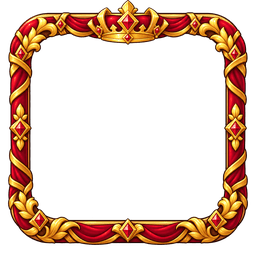
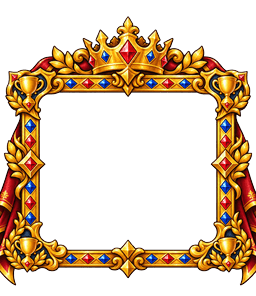
시즌 왕관 테두리
Claude-Session: https://claude.ai/code/session_011AypWsTwCXy5ahmKUPDYwt

diff --git a/sw.js b/sw.js
@@ -1,6 +1,6 @@
 /* 왕이 되는 그날까지 — 오프라인 실행용 서비스 워커 (tools/build_sw.py가 만듦, 직접 고치지 말 것) */
-const VERSION='3465763212';
-const MAP={"assets/bg/ash_far.png":"abfdc7ad7e","assets/bg/ash_ground.png":"fbd17f65c8","assets/bg/ash_mid.png":"bf807812ec","assets/bg/ash_sky.png":"300201d8a2","assets/bg/canyon_far.png":"a9cc422fed","assets/bg/canyon_ground.png":"d5f682c619","assets/bg/canyon_mid.png":"e5e4324591","assets/bg/canyon_sky.png":"9c202a64b5","assets/bg/dusk_far.png":"f566503025","assets/bg/dusk_ground.png":"d4760254fd","assets/bg/dusk_mid.png":"e0989d31a1","assets/bg/dusk_sky.png":"c82f7b61d3","assets/bg/erdan_far.png":"d094fc7ce5","assets/bg/erdan_ground.png":"d3529606e8","assets/bg/erdan_mid.png":"c8ad3804c1","assets/bg/erdan_sky.png":"1e05f8731e","assets/bg/frost_far.png":"19dad2ce88","assets/bg/frost_ground.png":"3b9d5fb014","assets/bg/frost_mid.png":"69a80fb601","assets/bg/frost_sky.png":"955f847347","assets/characters/brida_attack.png":"8a08e6bed8","assets/characters/brida_hit.png":"917e69900f","assets/characters/brida_idle.png":"9d37c07a5e","assets/characters/brida_walk.png":"35456db495","assets/characters/bron_attack.png":"3a0e0caf42","assets/characters/bron_hit.png":"84a7154e77","assets/characters/bron_idle.png":"61229dcc5b","assets/characters/bron_walk.png":"7dad3ba0f2","assets/characters/daisy_attack.png":"4b7c1426b9","assets/characters/daisy_hit.png":"8f1a0878af","assets/characters/daisy_idle.png":"61377c6830","assets/characters/daisy_walk.png":"d5f2435e50","assets/characters/gordon_attack.png":"68652efe05","assets/characters/gordon_hit.png":"c801ae79b5","assets/characters/gordon_idle.png":"3784327d72","assets/characters/gordon_walk.png":"2a61a74afb","assets/characters/haral_attack.png":"978f3afc3f","assets/characters/haral_hit.png":"213362f649","assets/characters/haral_idle.png":"8bf0bf6d20","assets/characters/haral_walk.png":"39e8f29d2f","assets/characters/kael_attack.png":"dbd47d1705","assets/characters/kael_hit.png":"b0fbed0ea5","assets/characters/kael_idle.png":"29cdfa8cdc","assets/characters/kael_walk.png":"884487f656","assets/characters/luka_attack.png":"10b694870b","assets/characters/luka_hit.png":"00d56f7f82","assets/characters/luka_idle.png":"0c7c261f4e","assets/characters/luka_walk.png":"ffde5d0b12","assets/characters/margo_attack.png":"5801b486be","assets/characters/margo_hit.png":"1340b2a211","assets/characters/margo_idle.png":"d44c7fa00a","assets/characters/margo_walk.png":"86be37ce75","assets/characters/nella_attack.png":"c56d9ca13c","assets/characters/nella_hit.png":"4b975ad670","assets/characters/nella_idle.png":"c666efcc20","assets/characters/nella_walk.png":"e4712b243c","assets/characters/riel_attack.png":"08dc86ec82","assets/characters/riel_hit.png":"22eb8eaca6","assets/characters/riel_idle.png":"3cf3652c06","assets/characters/riel_walk.png":"d429ca1f71","assets/crops/crop_carrot_1.png":"f521f1b21a","assets/crops/crop_carrot_2.png":"96412cae61","assets/crops/crop_carrot_3.png":"0caab08be8","assets/crops/crop_carrot_4.png":"631ee0ae4c","assets/crops/crop_pumpkin_1.png":"17da246fd2","assets/crops/crop_pumpkin_2.png":"4bd771eea2","assets/crops/crop_pumpkin_3.png":"b0e0de0917","assets/crops/crop_pumpkin_4.png":"4199c151ff","assets/crops/crop_wheat_1.png":"b2c4cba4cd","assets/crops/crop_wheat_2.png":"9f43ac98c5","assets/crops/crop_wheat_3.png":"1980c09851","assets/crops/crop_wheat_4.png":"96d9a3ad42","assets/crops/plot_empty.png":"bf40b6ed45","assets/fonts/hahmlet-500.woff2":"2e21f9e04c","assets/fonts/hahmlet-700.woff2":"cff1c42d55","assets/fonts/plexkr-400.woff2":"2185fb2e58","assets/fonts/plexkr-600.woff2":"760cba76f5","assets/fx/fx_bees.png":"a77e742ff9","assets/fx/fx_coin.png":"83d65bf09a","assets/fx/fx_crit.png":"08659b9d49","assets/fx/fx_harpoon.png":"84a4e2831d","assets/fx/fx_heal.png":"9ceeb9de2e","assets/fx/fx_hit.png":"b9b3abbcaf","assets/fx/fx_skill_brida.png":"55e34584e8","assets/fx/fx_skill_bron.png":"ecbc795a27","assets/fx/fx_skill_daisy.png":"4f3bb837b2","assets/fx/fx_skill_gordon.png":"1e8ac2eb87","assets/fx/fx_skill_haral.png":"5e1499b5c7","assets/fx/fx_skill_kael.png":"81aabe4d33","assets/fx/fx_skill_luka.png":"85cac3f606","assets/fx/fx_skill_margo.png":"ac0d3edc16","assets/fx/fx_skill_nella.png":"e508630a6f","assets/fx/fx_skill_riel.png":"47270c84f8","assets/fx/fx_soup.png":"4b941315f8","assets/gem/gem_pack_1.png":"fbaa0f6542","assets/gem/gem_pack_2.png":"89bccb5745","assets/gem/gem_pack_3.png":"5b0c3058fd","assets/gem/gem_pack_4.png":"4b01620dbd","assets/gem/gem_pack_5.png":"3d29e897fe","assets/gem/gem_pack_6.png":"5164494272","assets/gem/ui_gem.png":"d72701ba7d","assets/icon/apple-touch-icon.png":"e50c9e6bf1","assets/icon/favicon-16.png":"2db4311b5d","assets/icon/favicon-32.png":"440db49613","assets/icon/icon-192.png":"441e2997bd","assets/icon/icon-512.png":"eda2be997b","assets/illust/illust_join.jpg":"4d0406de00","assets/illust/illust_offline.jpg":"809bf511a2","assets/illust/illust_prologue.jpg":"9beba365b5","assets/illust/illust_retire.jpg":"74ff311a7f","assets/illust/illust_title.jpg":"006adb3633","assets/map/ash_boss.png":"a8be9e52dc","assets/map/ash_enemy.png":"d2262367aa","assets/map/canyon_boss.png":"6b7c17a49c","assets/map/canyon_enemy.png":"e2d7d4ebcd","assets/map/capital_locked.png":"c828d1f67a","assets/map/capital_open.png":"cee360a677","assets/map/dusk_boss.png":"dbf6d0b566","assets/map/dusk_enemy.png":"543dbb2608","assets/map/erdan_boss.png":"63719713d5","assets/map/erdan_enemy.png":"b3c3a8a4e9","assets/map/frost_boss.png":"6ec913cade","assets/map/frost_enemy.png":"87e0ecc588","assets/monsters/bat_shadow_attack.png":"733f900992","assets/monsters/bat_shadow_hit.png":"6c6777143a","assets/monsters/bat_shadow_walk.png":"4bdf69f59e","assets/monsters/boss_aldor_attack.png":"98d147de33","assets/monsters/boss_aldor_hit.png":"8ef2631028","assets/monsters/boss_aldor_walk.png":"dc30c29780","assets/monsters/boss_gromak_attack.png":"79580dc79a","assets/monsters/boss_gromak_hit.png":"8afa36ddae","assets/monsters/boss_gromak_walk.png":"508e49c3f2","assets/monsters/boss_ignis_attack.png":"b3792ddac0","assets/monsters/boss_ignis_hit.png":"39874ec8ec","assets/monsters/boss_ignis_walk.png":"745f03cf3c","assets/monsters/boss_morbas_attack.png":"b90b8b6dbd","assets/monsters/boss_morbas_hit.png":"b2e28fd059","assets/monsters/boss_morbas_walk.png":"c14aa48d24","assets/monsters/boss_seril_attack.png":"87c378c111","assets/monsters/boss_seril_hit.png":"8ee606e7e9","assets/monsters/boss_seril_walk.png":"630659de62","assets/monsters/goblin_gold_attack.png":"64a6f6f451","assets/monsters/goblin_gold_hit.png":"8b27eac950","assets/monsters/goblin_gold_walk.png":"c8a6e5c138","assets/monsters/goblin_pick_attack.png":"fa8e5c883f","assets/monsters/goblin_pick_hit.png":"066af0e709","assets/monsters/goblin_pick_walk.png":"e1f6d5d36a","assets/monsters/golem_steel_attack.png":"07e873d945","assets/monsters/golem_steel_hit.png":"67115529dc","assets/monsters/golem_steel_walk.png":"af9989172a","assets/monsters/imp_flame_attack.png":"9855e4f5e3","assets/monsters/imp_flame_hit.png":"ac4e28b83a","assets/monsters/imp_flame_walk.png":"6a0a835904","assets/monsters/scarecrow_cursed_attack.png":"19c1676923","assets/monsters/scarecrow_cursed_hit.png":"07f43ba22a","assets/monsters/scarecrow_cursed_walk.png":"0b7170d79c","assets/monsters/skeleton_frost_attack.png":"07648d88b9","assets/monsters/skeleton_frost_hit.png":"fcc108c10e","assets/monsters/skeleton_frost_walk.png":"74294ba7e2","assets/monsters/slime_ash_attack.png":"031d213acf","assets/monsters/slime_ash_hit.png":"ce2fa4d31b","assets/monsters/slime_ash_walk.png":"03ae7c49a4","assets/monsters/slime_plague_attack.png":"d4f6075abb","assets/monsters/slime_plague_hit.png":"bb74341a7e","assets/monsters/slime_plague_walk.png":"151b47bf12","assets/monsters/wolf_shadow_attack.png":"a6a83b34b8","assets/monsters/wolf_shadow_hit.png":"82a1af6e1d","assets/monsters/wolf_shadow_walk.png":"1251356e09","assets/monsters/wraith_frost_attack.png":"f5f41001fb","assets/monsters/wraith_frost_hit.png":"6348e92571","assets/monsters/wraith_frost_walk.png":"131c82c5ac","assets/portraits/portrait_aldor_idle.png":"07633d6214","assets/portraits/portrait_brida_idle.png":"cdf6882dec","assets/portraits/portrait_brida_laugh.png":"cde04938db","assets/portraits/portrait_bron_idle.png":"eb202419e5","assets/portraits/portrait_bron_laugh.png":"067dda71a1","assets/portraits/portrait_daisy_idle.png":"8b95fff77a","assets/portraits/portrait_daisy_laugh.png":"38c0f6471b","assets/portraits/portrait_gordon_idle.png":"9115efb052","assets/portraits/portrait_gordon_laugh.png":"03b62ce20f","assets/portraits/portrait_gromak_idle.png":"b4510b3437","assets/portraits/portrait_haral_idle.png":"8057bc4036","assets/portraits/portrait_haral_laugh.png":"c213936ee8","assets/portraits/portrait_ignis_idle.png":"6bb8479476","assets/portraits/portrait_kael_flustered.png":"dcbbe42cd0","assets/portraits/portrait_kael_idle.png":"2faad1bb9c","assets/portraits/portrait_kael_smile.png":"880d0b870c","assets/portraits/portrait_kael_surprised.png":"f49dfef839","assets/portraits/portrait_luka_idle.png":"ef693f34ba","assets/portraits/portrait_luka_laugh.png":"aafc2ba36c","assets/portraits/portrait_luminar_angry.png":"406fff108e","assets/portraits/portrait_luminar_moved.png":"ac97db5b14","assets/portraits/portrait_luminar_proud.png":"5a078f2d6f","assets/portraits/portrait_margo_idle.png":"a390d73c66","assets/portraits/portrait_margo_laugh.png":"6a6d2380f8","assets/portraits/portrait_marta_idle.png":"d86a9956f4","assets/portraits/portrait_morbas_idle.png":"1ed03a2888","assets/portraits/portrait_nella_idle.png":"b11813c857","assets/portraits/portrait_nella_laugh.png":"05ff86fd98","assets/portraits/portrait_pete_idle.png":"d14833cc91","assets/portraits/portrait_riel_idle.png":"31ca54792c","assets/portraits/portrait_riel_laugh.png":"40f5ce426b","assets/portraits/portrait_seril_idle.png":"52fb8d0eb1","assets/portraits/portrait_toby_idle.png":"ea6aef3ceb","assets/profile/badge_basket.png":"19ad639d98","assets/profile/badge_champ.png":"87c7d121ac","assets/profile/badge_chest.png":"1997070288","assets/profile/badge_crown1.png":"87c7d121ac","assets/profile/badge_crown2.png":"87c7d121ac","assets/profile/badge_crown3.png":"87c7d121ac","assets/profile/badge_goblin.png":"a97a7db198","assets/profile/badge_horns.png":"eb77cb7f93","assets/profile/badge_king.png":"87c7d121ac","assets/profile/badge_pumpkin.png":"e191405060","assets/profile/badge_rebuild.png":"100b0d8092","assets/profile/badge_retire.png":"68a96ee52e","assets/profile/badge_stew.png":"c5615ba22c","assets/profile/badge_top10.png":"87c7d121ac","assets/profile/frame_amethyst.png":"33596ec882","assets/profile/frame_conquer.png":"ac627fc7a3","assets/profile/frame_goblin.png":"206ee5a860","assets/profile/frame_gold.png":"ac627fc7a3","assets/profile/frame_harvest.png":"1b0b11ae0b","assets/profile/frame_holy.png":"1af08de6e7","assets/profile/frame_royal.png":"e21f45a33a","assets/profile/frame_season.png":"e21f45a33a","assets/profile/frame_silver.png":"1db41ebcfa","assets/profile/frame_straw.png":"0810bf19b1","assets/profile/frame_wood.png":"99f33b8a46","assets/relic/relic_armor_1.png":"16d76a13c5","assets/relic/relic_armor_2.png":"87fb210070","assets/relic/relic_armor_3.png":"dd11fe2783","assets/relic/relic_boots_1.png":"d9a8c049ac","assets/relic/relic_boots_2.png":"efd27637b0","assets/relic/relic_boots_3.png":"5a612f2e27","assets/relic/relic_gloves_1.png":"5e8bee64d0","assets/relic/relic_gloves_2.png":"6795c922c5","assets/relic/relic_gloves_3.png":"67e14c6405","assets/relic/relic_helm_1.png":"455c59b819","assets/relic/relic_helm_2.png":"d18874e0e3","assets/relic/relic_helm_3.png":"cf800e2dad","assets/relic/relic_ring_1.png":"10edfdff76","assets/relic/relic_ring_2.png":"78a2cc0f51","assets/relic/relic_ring_3.png":"b2278ff8ee","assets/relic/relic_weapon_1.png":"dcc7c7540a","assets/relic/relic_weapon_2.png":"5fdd6cc2b3","assets/relic/relic_weapon_3.png":"f0135343bd","assets/skills/skill_brida.png":"0aa718bf0d","assets/skills/skill_bron.png":"08c7b35e76","assets/skills/skill_daisy.png":"8ee38fd0b9","assets/skills/skill_gordon.png":"28dcc7dd68","assets/skills/skill_haral.png":"d392acbc14","assets/skills/skill_kael.png":"85c628e6a9","assets/skills/skill_luka.png":"ed4206fe68","assets/skills/skill_margo.png":"1498522d74","assets/skills/skill_nella.png":"04dc833078","assets/skills/skill_riel.png":"7aca6249d7","assets/ui/banner_capture.png":"cdce0b7ac7","assets/ui/bld_apiary.png":"1c86733003","assets/ui/bld_diner.png":"386a2fd60f","assets/ui/bld_dock.png":"f0409530e4","assets/ui/bld_farm.png":"ba8a24d8a9","assets/ui/bld_inn.png":"6857ad2ff5","assets/ui/bld_mine.png":"db914dbca5","assets/ui/boss_aura_commander.png":"3f9d291d94","assets/ui/boss_aura_lord.png":"785308d542","assets/ui/boss_mark_commander.png":"77e1e1b4bb","assets/ui/boss_mark_lord.png":"123c1b4432","assets/ui/btn_auto.png":"bb952f4274","assets/ui/btn_x1.png":"f15e57f854","assets/ui/btn_x2.png":"cc3f2a2268","assets/ui/buff_atk.png":"9a886d1ff6","assets/ui/buff_crit.png":"2b2750f8d0","assets/ui/buff_gold.png":"1a7ca0cf7c","assets/ui/buff_spd.png":"dae9c3f56c","assets/ui/card_back.png":"2e995c839d","assets/ui/card_pack3.png":"c7e9ba66d2","assets/ui/card_pack30.png":"bae3246a77","assets/ui/dish_bread.png":"cfa0004d31","assets/ui/dish_grill.png":"b3f6aa56e7","assets/ui/dish_pie.png":"ef179cd895","assets/ui/dish_stew.png":"75628aa305","assets/ui/frame_dialog.png":"1d1d83a399","assets/ui/frame_epic.png":"69a0cfc775","assets/ui/frame_legendary.png":"9a8f6852ac","assets/ui/frame_mythic.png":"83201ca46e","assets/ui/frame_normal.png":"01b42af2db","assets/ui/frame_popup.png":"20dc37c6ff","assets/ui/frame_rare.png":"6e60a9625d","assets/ui/frame_uncommon.png":"c1f9ee4e31","assets/ui/gold_pack1.png":"86f82d080a","assets/ui/gold_pack2.png":"fa9b76580c","assets/ui/gold_pack3.png":"fb7d21eb5f","assets/ui/hd_mail.png":"c7d765daa3","assets/ui/hd_profile.png":"d6f1533dc1","assets/ui/hd_rank.png":"3d843cc8fc","assets/ui/hd_settings.png":"800b585221","assets/ui/icon_mail.png":"0218f23f44","assets/ui/item_carrot.png":"9d51a5ea72","assets/ui/item_fish.png":"2f62e8797b","assets/ui/item_honey.png":"fbdf3d5e01","assets/ui/item_ore.png":"6eb3cdcb49","assets/ui/item_pumpkin.png":"074c67fcb2","assets/ui/item_wheat.png":"69fac25d82","assets/ui/job_cook.png":"8ecd134595","assets/ui/job_fisher.png":"f8d9a89f41","assets/ui/job_keeper.png":"cac89bfa34","assets/ui/job_miner.png":"004c57a1e5","assets/ui/logo.png":"2d22e7ca80","assets/ui/node_boss.png":"c79760401f","assets/ui/node_captured.png":"0a83211c2b","assets/ui/node_current.png":"c4a3ba8982","assets/ui/node_enemy.png":"55c59af8ea","assets/ui/rank_count.png":"f0e9a8bd8c","assets/ui/rank_duke.png":"80cb0fc6fa","assets/ui/rank_farmer.png":"493f3b96e1","assets/ui/rank_guard.png":"8a70f1c39c","assets/ui/rank_king.png":"a34e27d982","assets/ui/rank_knight.png":"78adabb17a","assets/ui/rank_lord.png":"77bb49441a","assets/ui/relic_chest.png":"9311479aa1","assets/ui/seed_carrot.png":"f21317e672","assets/ui/seed_pumpkin.png":"de9e24a972","assets/ui/seed_wheat.png":"bc87c11aee","assets/ui/slot_armor.png":"83816d046b","assets/ui/slot_boots.png":"01c1c89cdb","assets/ui/slot_gloves.png":"483d5aba63","assets/ui/slot_hat.png":"45c39d6e0c","assets/ui/slot_ring.png":"3707240c55","assets/ui/slot_weapon.png":"d76a948b02","assets/ui/tab_equipment.png":"cebacb923b","assets/ui/tab_map.png":"5178bc1d54","assets/ui/tab_party.png":"80412a0e78","assets/ui/tab_training.png":"f090ee0719","assets/ui/tab_village.png":"87cabcf9cb","assets/ui/ui_boss_mark.png":"8fe434b274","assets/ui/ui_gold.png":"12070643fb","assets/ui/upg_atk.png":"f736f9ddc3","assets/ui/upg_crit.png":"8cf9c877a8","assets/ui/upg_hp.png":"f3d35d179c","assets/ui/upg_spd.png":"6d0b67053f","assets/ui/village_skill.png":"651e2edbde","assets/village/apiary_built.png":"001bb8753d","assets/village/apiary_ruin.png":"42a1170bd6","assets/village/diner_built.png":"50f46b5946","assets/village/diner_ruin.png":"e09f4a687d","assets/village/dock_built.png":"10894845e0","assets/village/dock_ruin.png":"975d3eea4f","assets/village/farm_built.png":"2331d98d5b","assets/village/farm_ruin.png":"6f4bde33f4","assets/village/inn_built.png":"75f5599f0b","assets/village/inn_ruin.png":"31dfd01982","assets/village/mine_built.png":"85b66e411e","assets/village/mine_ruin.png":"b773da1822","assets/village/village_bg.jpg":"d7046fd11a","favicon.ico":"48e226949a","manifest.webmanifest":"cba9531993"};
+const VERSION='3a3a8cc578';
+const MAP={"assets/bg/ash_far.png":"abfdc7ad7e","assets/bg/ash_ground.png":"fbd17f65c8","assets/bg/ash_mid.png":"bf807812ec","assets/bg/ash_sky.png":"300201d8a2","assets/bg/canyon_far.png":"a9cc422fed","assets/bg/canyon_ground.png":"d5f682c619","assets/bg/canyon_mid.png":"e5e4324591","assets/bg/canyon_sky.png":"9c202a64b5","assets/bg/dusk_far.png":"f566503025","assets/bg/dusk_ground.png":"d4760254fd","assets/bg/dusk_mid.png":"e0989d31a1","assets/bg/dusk_sky.png":"c82f7b61d3","assets/bg/erdan_far.png":"d094fc7ce5","assets/bg/erdan_ground.png":"d3529606e8","assets/bg/erdan_mid.png":"c8ad3804c1","assets/bg/erdan_sky.png":"1e05f8731e","assets/bg/frost_far.png":"19dad2ce88","assets/bg/frost_ground.png":"3b9d5fb014","assets/bg/frost_mid.png":"69a80fb601","assets/bg/frost_sky.png":"955f847347","assets/characters/brida_attack.png":"8a08e6bed8","assets/characters/brida_hit.png":"917e69900f","assets/characters/brida_idle.png":"9d37c07a5e","assets/characters/brida_walk.png":"35456db495","assets/characters/bron_attack.png":"3a0e0caf42","assets/characters/bron_hit.png":"84a7154e77","assets/characters/bron_idle.png":"61229dcc5b","assets/characters/bron_walk.png":"7dad3ba0f2","assets/characters/daisy_attack.png":"4b7c1426b9","assets/characters/daisy_hit.png":"8f1a0878af","assets/characters/daisy_idle.png":"61377c6830","assets/characters/daisy_walk.png":"d5f2435e50","assets/characters/gordon_attack.png":"68652efe05","assets/characters/gordon_hit.png":"c801ae79b5","assets/characters/gordon_idle.png":"3784327d72","assets/characters/gordon_walk.png":"2a61a74afb","assets/characters/haral_attack.png":"978f3afc3f","assets/characters/haral_hit.png":"213362f649","assets/characters/haral_idle.png":"8bf0bf6d20","assets/characters/haral_walk.png":"39e8f29d2f","assets/characters/kael_attack.png":"dbd47d1705","assets/characters/kael_hit.png":"b0fbed0ea5","assets/characters/kael_idle.png":"29cdfa8cdc","assets/characters/kael_walk.png":"884487f656","assets/characters/luka_attack.png":"10b694870b","assets/characters/luka_hit.png":"00d56f7f82","assets/characters/luka_idle.png":"0c7c261f4e","assets/characters/luka_walk.png":"ffde5d0b12","assets/characters/margo_attack.png":"5801b486be","assets/characters/margo_hit.png":"1340b2a211","assets/characters/margo_idle.png":"d44c7fa00a","assets/characters/margo_walk.png":"86be37ce75","assets/characters/nella_attack.png":"c56d9ca13c","assets/characters/nella_hit.png":"4b975ad670","assets/characters/nella_idle.png":"c666efcc20","assets/characters/nella_walk.png":"e4712b243c","assets/characters/riel_attack.png":"08dc86ec82","assets/characters/riel_hit.png":"22eb8eaca6","assets/characters/riel_idle.png":"3cf3652c06","assets/characters/riel_walk.png":"d429ca1f71","assets/crops/crop_carrot_1.png":"f521f1b21a","assets/crops/crop_carrot_2.png":"96412cae61","assets/crops/crop_carrot_3.png":"0caab08be8","assets/crops/crop_carrot_4.png":"631ee0ae4c","assets/crops/crop_pumpkin_1.png":"17da246fd2","assets/crops/crop_pumpkin_2.png":"4bd771eea2","assets/crops/crop_pumpkin_3.png":"b0e0de0917","assets/crops/crop_pumpkin_4.png":"4199c151ff","assets/crops/crop_wheat_1.png":"b2c4cba4cd","assets/crops/crop_wheat_2.png":"9f43ac98c5","assets/crops/crop_wheat_3.png":"1980c09851","assets/crops/crop_wheat_4.png":"96d9a3ad42","assets/crops/plot_empty.png":"bf40b6ed45","assets/fonts/hahmlet-500.woff2":"2e21f9e04c","assets/fonts/hahmlet-700.woff2":"cff1c42d55","assets/fonts/plexkr-400.woff2":"2185fb2e58","assets/fonts/plexkr-600.woff2":"760cba76f5","assets/fx/fx_bees.png":"a77e742ff9","assets/fx/fx_coin.png":"83d65bf09a","assets/fx/fx_crit.png":"08659b9d49","assets/fx/fx_harpoon.png":"84a4e2831d","assets/fx/fx_heal.png":"9ceeb9de2e","assets/fx/fx_hit.png":"b9b3abbcaf","assets/fx/fx_skill_brida.png":"55e34584e8","assets/fx/fx_skill_bron.png":"ecbc795a27","assets/fx/fx_skill_daisy.png":"4f3bb837b2","assets/fx/fx_skill_gordon.png":"1e8ac2eb87","assets/fx/fx_skill_haral.png":"5e1499b5c7","assets/fx/fx_skill_kael.png":"81aabe4d33","assets/fx/fx_skill_luka.png":"85cac3f606","assets/fx/fx_skill_margo.png":"ac0d3edc16","assets/fx/fx_skill_nella.png":"e508630a6f","assets/fx/fx_skill_riel.png":"47270c84f8","assets/fx/fx_soup.png":"4b941315f8","assets/gem/gem_pack_1.png":"fbaa0f6542","assets/gem/gem_pack_2.png":"89bccb5745","assets/gem/gem_pack_3.png":"5b0c3058fd","assets/gem/gem_pack_4.png":"4b01620dbd","assets/gem/gem_pack_5.png":"3d29e897fe","assets/gem/gem_pack_6.png":"5164494272","assets/gem/ui_gem.png":"d72701ba7d","assets/icon/apple-touch-icon.png":"e50c9e6bf1","assets/icon/favicon-16.png":"2db4311b5d","assets/icon/favicon-32.png":"440db49613","assets/icon/icon-192.png":"441e2997bd","assets/icon/icon-512.png":"eda2be997b","assets/illust/illust_join.jpg":"4d0406de00","assets/illust/illust_offline.jpg":"809bf511a2","assets/illust/illust_prologue.jpg":"9beba365b5","assets/illust/illust_retire.jpg":"74ff311a7f","assets/illust/illust_title.jpg":"006adb3633","assets/map/ash_boss.png":"a8be9e52dc","assets/map/ash_enemy.png":"d2262367aa","assets/map/canyon_boss.png":"6b7c17a49c","assets/map/canyon_enemy.png":"e2d7d4ebcd","assets/map/capital_locked.png":"c828d1f67a","assets/map/capital_open.png":"cee360a677","assets/map/dusk_boss.png":"dbf6d0b566","assets/map/dusk_enemy.png":"543dbb2608","assets/map/erdan_boss.png":"63719713d5","assets/map/erdan_enemy.png":"b3c3a8a4e9","assets/map/frost_boss.png":"6ec913cade","assets/map/frost_enemy.png":"87e0ecc588","assets/monsters/bat_shadow_attack.png":"733f900992","assets/monsters/bat_shadow_hit.png":"6c6777143a","assets/monsters/bat_shadow_walk.png":"4bdf69f59e","assets/monsters/boss_aldor_attack.png":"98d147de33","assets/monsters/boss_aldor_hit.png":"8ef2631028","assets/monsters/boss_aldor_walk.png":"dc30c29780","assets/monsters/boss_gromak_attack.png":"79580dc79a","assets/monsters/boss_gromak_hit.png":"8afa36ddae","assets/monsters/boss_gromak_walk.png":"508e49c3f2","assets/monsters/boss_ignis_attack.png":"b3792ddac0","assets/monsters/boss_ignis_hit.png":"39874ec8ec","assets/monsters/boss_ignis_walk.png":"745f03cf3c","assets/monsters/boss_morbas_attack.png":"b90b8b6dbd","assets/monsters/boss_morbas_hit.png":"b2e28fd059","assets/monsters/boss_morbas_walk.png":"c14aa48d24","assets/monsters/boss_seril_attack.png":"87c378c111","assets/monsters/boss_seril_hit.png":"8ee606e7e9","assets/monsters/boss_seril_walk.png":"630659de62","assets/monsters/goblin_gold_attack.png":"64a6f6f451","assets/monsters/goblin_gold_hit.png":"8b27eac950","assets/monsters/goblin_gold_walk.png":"c8a6e5c138","assets/monsters/goblin_pick_attack.png":"fa8e5c883f","assets/monsters/goblin_pick_hit.png":"066af0e709","assets/monsters/goblin_pick_walk.png":"e1f6d5d36a","assets/monsters/golem_steel_attack.png":"07e873d945","assets/monsters/golem_steel_hit.png":"67115529dc","assets/monsters/golem_steel_walk.png":"af9989172a","assets/monsters/imp_flame_attack.png":"9855e4f5e3","assets/monsters/imp_flame_hit.png":"ac4e28b83a","assets/monsters/imp_flame_walk.png":"6a0a835904","assets/monsters/scarecrow_cursed_attack.png":"19c1676923","assets/monsters/scarecrow_cursed_hit.png":"07f43ba22a","assets/monsters/scarecrow_cursed_walk.png":"0b7170d79c","assets/monsters/skeleton_frost_attack.png":"07648d88b9","assets/monsters/skeleton_frost_hit.png":"fcc108c10e","assets/monsters/skeleton_frost_walk.png":"74294ba7e2","assets/monsters/slime_ash_attack.png":"031d213acf","assets/monsters/slime_ash_hit.png":"ce2fa4d31b","assets/monsters/slime_ash_walk.png":"03ae7c49a4","assets/monsters/slime_plague_attack.png":"d4f6075abb","assets/monsters/slime_plague_hit.png":"bb74341a7e","assets/monsters/slime_plague_walk.png":"151b47bf12","assets/monsters/wolf_shadow_attack.png":"a6a83b34b8","assets/monsters/wolf_shadow_hit.png":"82a1af6e1d","assets/monsters/wolf_shadow_walk.png":"1251356e09","assets/monsters/wraith_frost_attack.png":"f5f41001fb","assets/monsters/wraith_frost_hit.png":"6348e92571","assets/monsters/wraith_frost_walk.png":"131c82c5ac","assets/portraits/portrait_aldor_idle.png":"07633d6214","assets/portraits/portrait_brida_idle.png":"cdf6882dec","assets/portraits/portrait_brida_laugh.png":"cde04938db","assets/portraits/portrait_bron_idle.png":"eb202419e5","assets/portraits/portrait_bron_laugh.png":"067dda71a1","assets/portraits/portrait_daisy_idle.png":"8b95fff77a","assets/portraits/portrait_daisy_laugh.png":"38c0f6471b","assets/portraits/portrait_gordon_idle.png":"9115efb052","assets/portraits/portrait_gordon_laugh.png":"03b62ce20f","assets/portraits/portrait_gromak_idle.png":"b4510b3437","assets/portraits/portrait_haral_idle.png":"8057bc4036","assets/portraits/portrait_haral_laugh.png":"c213936ee8","assets/portraits/portrait_ignis_idle.png":"6bb8479476","assets/portraits/portrait_kael_flustered.png":"dcbbe42cd0","assets/portraits/portrait_kael_idle.png":"2faad1bb9c","assets/portraits/portrait_kael_smile.png":"880d0b870c","assets/portraits/portrait_kael_surprised.png":"f49dfef839","assets/portraits/portrait_luka_idle.png":"ef693f34ba","assets/portraits/portrait_luka_laugh.png":"aafc2ba36c","assets/portraits/portrait_luminar_angry.png":"406fff108e","assets/portraits/portrait_luminar_moved.png":"ac97db5b14","assets/portraits/portrait_luminar_proud.png":"5a078f2d6f","assets/portraits/portrait_margo_idle.png":"a390d73c66","assets/portraits/portrait_margo_laugh.png":"6a6d2380f8","assets/portraits/portrait_marta_idle.png":"d86a9956f4","assets/portraits/portrait_morbas_idle.png":"1ed03a2888","assets/portraits/portrait_nella_idle.png":"b11813c857","assets/portraits/portrait_nella_laugh.png":"05ff86fd98","assets/portraits/portrait_pete_idle.png":"d14833cc91","assets/portraits/portrait_riel_idle.png":"31ca54792c","assets/portraits/portrait_riel_laugh.png":"40f5ce426b","assets/portraits/portrait_seril_idle.png":"52fb8d0eb1","assets/portraits/portrait_toby_idle.png":"ea6aef3ceb","assets/profile/badge_basket.png":"19ad639d98","assets/profile/badge_champ.png":"87c7d121ac","assets/profile/badge_chest.png":"1997070288","assets/profile/badge_crown1.png":"87c7d121ac","assets/profile/badge_crown2.png":"87c7d121ac","assets/profile/badge_crown3.png":"87c7d121ac","assets/profile/badge_goblin.png":"a97a7db198","assets/profile/badge_horns.png":"eb77cb7f93","assets/profile/badge_king.png":"87c7d121ac","assets/profile/badge_pumpkin.png":"e191405060","assets/profile/badge_rebuild.png":"100b0d8092","assets/profile/badge_retire.png":"68a96ee52e","assets/profile/badge_stew.png":"c5615ba22c","assets/profile/badge_top10.png":"87c7d121ac","assets/profile/frame_amethyst.png":"33596ec882","assets/profile/frame_conquer.png":"ac627fc7a3","assets/profile/frame_goblin.png":"206ee5a860","assets/profile/frame_gold.png":"ac627fc7a3","assets/profile/frame_harvest.png":"1b0b11ae0b","assets/profile/frame_holy.png":"1af08de6e7","assets/profile/frame_royal.png":"e21f45a33a","assets/profile/frame_season.png":"6f46cd6c32","assets/profile/frame_silver.png":"1db41ebcfa","assets/profile/frame_straw.png":"0810bf19b1","assets/profile/frame_wood.png":"99f33b8a46","assets/relic/relic_armor_1.png":"16d76a13c5","assets/relic/relic_armor_2.png":"87fb210070","assets/relic/relic_armor_3.png":"dd11fe2783","assets/relic/relic_boots_1.png":"d9a8c049ac","assets/relic/relic_boots_2.png":"efd27637b0","assets/relic/relic_boots_3.png":"5a612f2e27","assets/relic/relic_gloves_1.png":"5e8bee64d0","assets/relic/relic_gloves_2.png":"6795c922c5","assets/relic/relic_gloves_3.png":"67e14c6405","assets/relic/relic_helm_1.png":"455c59b819","assets/relic/relic_helm_2.png":"d18874e0e3","assets/relic/relic_helm_3.png":"cf800e2dad","assets/relic/relic_ring_1.png":"10edfdff76","assets/relic/relic_ring_2.png":"78a2cc0f51","assets/relic/relic_ring_3.png":"b2278ff8ee","assets/relic/relic_weapon_1.png":"dcc7c7540a","assets/relic/relic_weapon_2.png":"5fdd6cc2b3","assets/relic/relic_weapon_3.png":"f0135343bd","assets/skills/skill_brida.png":"0aa718bf0d","assets/skills/skill_bron.png":"08c7b35e76","assets/skills/skill_daisy.png":"8ee38fd0b9","assets/skills/skill_gordon.png":"28dcc7dd68","assets/skills/skill_haral.png":"d392acbc14","assets/skills/skill_kael.png":"85c628e6a9","assets/skills/skill_luka.png":"ed4206fe68","assets/skills/skill_margo.png":"1498522d74","assets/skills/skill_nella.png":"04dc833078","assets/skills/skill_riel.png":"7aca6249d7","assets/ui/banner_capture.png":"cdce0b7ac7","assets/ui/bld_apiary.png":"1c86733003","assets/ui/bld_diner.png":"386a2fd60f","assets/ui/bld_dock.png":"f0409530e4","assets/ui/bld_farm.png":"ba8a24d8a9","assets/ui/bld_inn.png":"6857ad2ff5","assets/ui/bld_mine.png":"db914dbca5","assets/ui/boss_aura_commander.png":"3f9d291d94","assets/ui/boss_aura_lord.png":"785308d542","assets/ui/boss_mark_commander.png":"77e1e1b4bb","assets/ui/boss_mark_lord.png":"123c1b4432","assets/ui/btn_auto.png":"bb952f4274","assets/ui/btn_x1.png":"f15e57f854","assets/ui/btn_x2.png":"cc3f2a2268","assets/ui/buff_atk.png":"9a886d1ff6","assets/ui/buff_crit.png":"2b2750f8d0","assets/ui/buff_gold.png":"1a7ca0cf7c","assets/ui/buff_spd.png":"dae9c3f56c","assets/ui/card_back.png":"2e995c839d","assets/ui/card_pack3.png":"c7e9ba66d2","assets/ui/card_pack30.png":"bae3246a77","assets/ui/dish_bread.png":"cfa0004d31","assets/ui/dish_grill.png":"b3f6aa56e7","assets/ui/dish_pie.png":"ef179cd895","assets/ui/dish_stew.png":"75628aa305","assets/ui/frame_dialog.png":"1d1d83a399","assets/ui/frame_epic.png":"69a0cfc775","assets/ui/frame_legendary.png":"9a8f6852ac","assets/ui/frame_mythic.png":"83201ca46e","assets/ui/frame_normal.png":"01b42af2db","assets/ui/frame_popup.png":"20dc37c6ff","assets/ui/frame_rare.png":"6e60a9625d","assets/ui/frame_uncommon.png":"c1f9ee4e31","assets/ui/gold_pack1.png":"86f82d080a","assets/ui/gold_pack2.png":"fa9b76580c","assets/ui/gold_pack3.png":"fb7d21eb5f","assets/ui/hd_mail.png":"c7d765daa3","assets/ui/hd_profile.png":"d6f1533dc1","assets/ui/hd_rank.png":"3d843cc8fc","assets/ui/hd_settings.png":"800b585221","assets/ui/icon_mail.png":"0218f23f44","assets/ui/item_carrot.png":"9d51a5ea72","assets/ui/item_fish.png":"2f62e8797b","assets/ui/item_honey.png":"fbdf3d5e01","assets/ui/item_ore.png":"6eb3cdcb49","assets/ui/item_pumpkin.png":"074c67fcb2","assets/ui/item_wheat.png":"69fac25d82","assets/ui/job_cook.png":"8ecd134595","assets/ui/job_fisher.png":"f8d9a89f41","assets/ui/job_keeper.png":"cac89bfa34","assets/ui/job_miner.png":"004c57a1e5","assets/ui/logo.png":"2d22e7ca80","assets/ui/node_boss.png":"c79760401f","assets/ui/node_captured.png":"0a83211c2b","assets/ui/node_current.png":"c4a3ba8982","assets/ui/node_enemy.png":"55c59af8ea","assets/ui/rank_count.png":"f0e9a8bd8c","assets/ui/rank_duke.png":"80cb0fc6fa","assets/ui/rank_farmer.png":"493f3b96e1","assets/ui/rank_guard.png":"8a70f1c39c","assets/ui/rank_king.png":"a34e27d982","assets/ui/rank_knight.png":"78adabb17a","assets/ui/rank_lord.png":"77bb49441a","assets/ui/relic_chest.png":"9311479aa1","assets/ui/seed_carrot.png":"f21317e672","assets/ui/seed_pumpkin.png":"de9e24a972","assets/ui/seed_wheat.png":"bc87c11aee","assets/ui/slot_armor.png":"83816d046b","assets/ui/slot_boots.png":"01c1c89cdb","assets/ui/slot_gloves.png":"483d5aba63","assets/ui/slot_hat.png":"45c39d6e0c","assets/ui/slot_ring.png":"3707240c55","assets/ui/slot_weapon.png":"d76a948b02","assets/ui/tab_equipment.png":"cebacb923b","assets/ui/tab_map.png":"5178bc1d54","assets/ui/tab_party.png":"80412a0e78","assets/ui/tab_training.png":"f090ee0719","assets/ui/tab_village.png":"87cabcf9cb","assets/ui/ui_boss_mark.png":"8fe434b274","assets/ui/ui_gold.png":"12070643fb","assets/ui/upg_atk.png":"f736f9ddc3","assets/ui/upg_crit.png":"8cf9c877a8","assets/ui/upg_hp.png":"f3d35d179c","assets/ui/upg_spd.png":"6d0b67053f","assets/ui/village_skill.png":"651e2edbde","assets/village/apiary_built.png":"001bb8753d","assets/village/apiary_ruin.png":"42a1170bd6","assets/village/diner_built.png":"50f46b5946","assets/village/diner_ruin.png":"e09f4a687d","assets/village/dock_built.png":"10894845e0","assets/village/dock_ruin.png":"975d3eea4f","assets/village/farm_built.png":"2331d98d5b","assets/village/farm_ruin.png":"6f4bde33f4","assets/village/inn_built.png":"75f5599f0b","assets/village/inn_ruin.png":"31dfd01982","assets/village/mine_built.png":"85b66e411e","assets/village/mine_ruin.png":"b773da1822","assets/village/village_bg.jpg":"d7046fd11a","favicon.ico":"48e226949a","manifest.webmanifest":"cba9531993"};
 const PAGE='kd-page',FILES='kd-files';
 const base=self.registration.scope;
 const key=(p,h)=>new URL(p,base).href+'?v='+h;

diff --git a/index.html b/index.html
@@ -1823,7 +1823,7 @@ const PFRAMES=[
  {k:'holy',n:'성검의 가호',d:'첫 은퇴',ok:()=>(S.retires||0)>=1},
  {k:'royal',n:'붉은 왕관',d:'칭호 공작',ok:()=>rankIdx()>=5},
  {k:'goblin',n:'황금 고블린',d:'황금 고블린 희귀 전리품',ok:()=>false,rare:1,tall:1},
- {k:'season',n:'시즌 왕관',d:'시즌 랭킹 1위 보상',ok:()=>false,rk:1},
+ {k:'season',n:'시즌 왕관',d:'시즌 랭킹 1위 보상',ok:()=>false,rk:1,tall:1},
  {k:'conquer',n:'정복자',d:'영지 50곳 탈환 · 명예의 전당 보상',ok:()=>false,rk:1}];
 const pfTall=k=>(PFRAMES.find(f=>f.k===k)||{}).tall?' tall':'';
 const stat=(k,n)=>{if(!S.stat)S.stat={};S.stat[k]=(S.stat[k]||0)+n},st=k=>(S.stat&&S.stat[k])||0;
@@ -1850,7 +1850,7 @@ function pfCheck(){if(!S.pfUnl)S.pfUnl={};for(const f of PFRAMES){if(!S.pfUnl[f.
  {const fb=$('faceBtn');if(fb){fb.classList.toggle('newpf',!S.pfSeen);fb.classList.toggle('pfdot',!!S.pfSeen&&!!S.pfNew&&Object.keys(S.pfNew).length>0)}}
  const im=$('hFrame'),src='assets/profile/frame_'+(S.pf||'wood')+'.png';if(im&&!im.src.endsWith(src)){im.src=src;im.className='pfr'+pfTall(S.pf||'wood')}}
 function profileSheet(){S.pfSeen=1;const nw=S.pfNew||{};S.pfNew={};pfCheck();const cur=S.pf||'wood',ri=rankIdx();
- $('sheet').innerHTML=`<div class="hdban" style="--hb:url(assets/ui/hd_profile.png)"><span>프로필</span></div><div class="pfhead"><div class="pfbig"><canvas id="pfCv"></canvas><img class="pfr${pfTall(cur)}" src="assets/profile/frame_${cur}.png" alt=""></div><div class="pfinfo"><b>카엘${S.badge&&bdHas(S.badge)?`<img class="pfbd" src="assets/profile/badge_${S.badge}.png" alt="">`:''}</b><small class="pfnick">닉네임 <b>${esc(S.nick||'준비 중')}</b>${S.nickTemp?' <i>임시</i>':''}${sbOn()?'<button class="buy" id="pfNick">'+(S.nickTemp?'정하기':'바꾸기')+'</button>':''}</small><small>${RANKS[ri].n} · 전투력 ${fmt(power())}</small><small>최고 영지 ${Math.min(S.best,MAXLAND)} · 은퇴 ${S.retires||0}번 · 은퇴의 추억 ${S.memory||0}개</small></div></div>
+ $('sheet').innerHTML=`<div class="hdban" style="--hb:url(assets/ui/hd_profile.png)"><span>프로필</span></div><div class="pfhead"><div class="pfbig"><canvas id="pfCv"></canvas><img class="pfr${pfTall(cur)}" src="assets/profile/frame_${cur}.png" alt=""></div><div class="pfinfo"><b>카엘${S.badge&&bdHas(S.badge)?`<img class="pfbd" src="assets/profile/badge_${S.badge}.png" alt="">`:''}</b><small class="pfnick">닉네임 <b>${esc(S.nick||'준비 중')}</b>${S.nickTemp?' <i>임시</i>':''}${sbOn()?'<button class="buy" id="pfNick">'+(S.nickTemp||!S.nick?'정하기':'바꾸기')+'</button>':''}</small><small>${RANKS[ri].n} · 전투력 ${fmt(power())}</small><small>최고 영지 ${Math.min(S.best,MAXLAND)} · 은퇴 ${S.retires||0}번 · 은퇴의 추억 ${S.memory||0}개</small></div></div>
  <div class="sec">테두리 <small>${PFRAMES.filter(f=>pfHas(f.k)).length} / ${PFRAMES.length}</small></div>
  <div class="pfgrid">${PFRAMES.map(f=>{const has=pfHas(f.k);return`<button class="pfc${f.k===cur?' on':''}${has?'':' lock'}${f.rare||f.rk?' rare':''}" data-pf="${f.k}"><span class="pv"><i></i><img class="pfr${pfTall(f.k)}" src="assets/profile/frame_${f.k}.png" alt=""></span><b>${f.n}</b>${nw['f_'+f.k]?'<i class="nwb">NEW</i>':''}<small>${f.k===cur?'사용 중':has?'바꾸기':'🔒 '+f.d}</small></button>`}).join('')}</div>
  <div class="sec">대표 배지 <small>${BADGES.filter(b=>bdHas(b.k)).length} / ${BADGES.length}</small></div>
